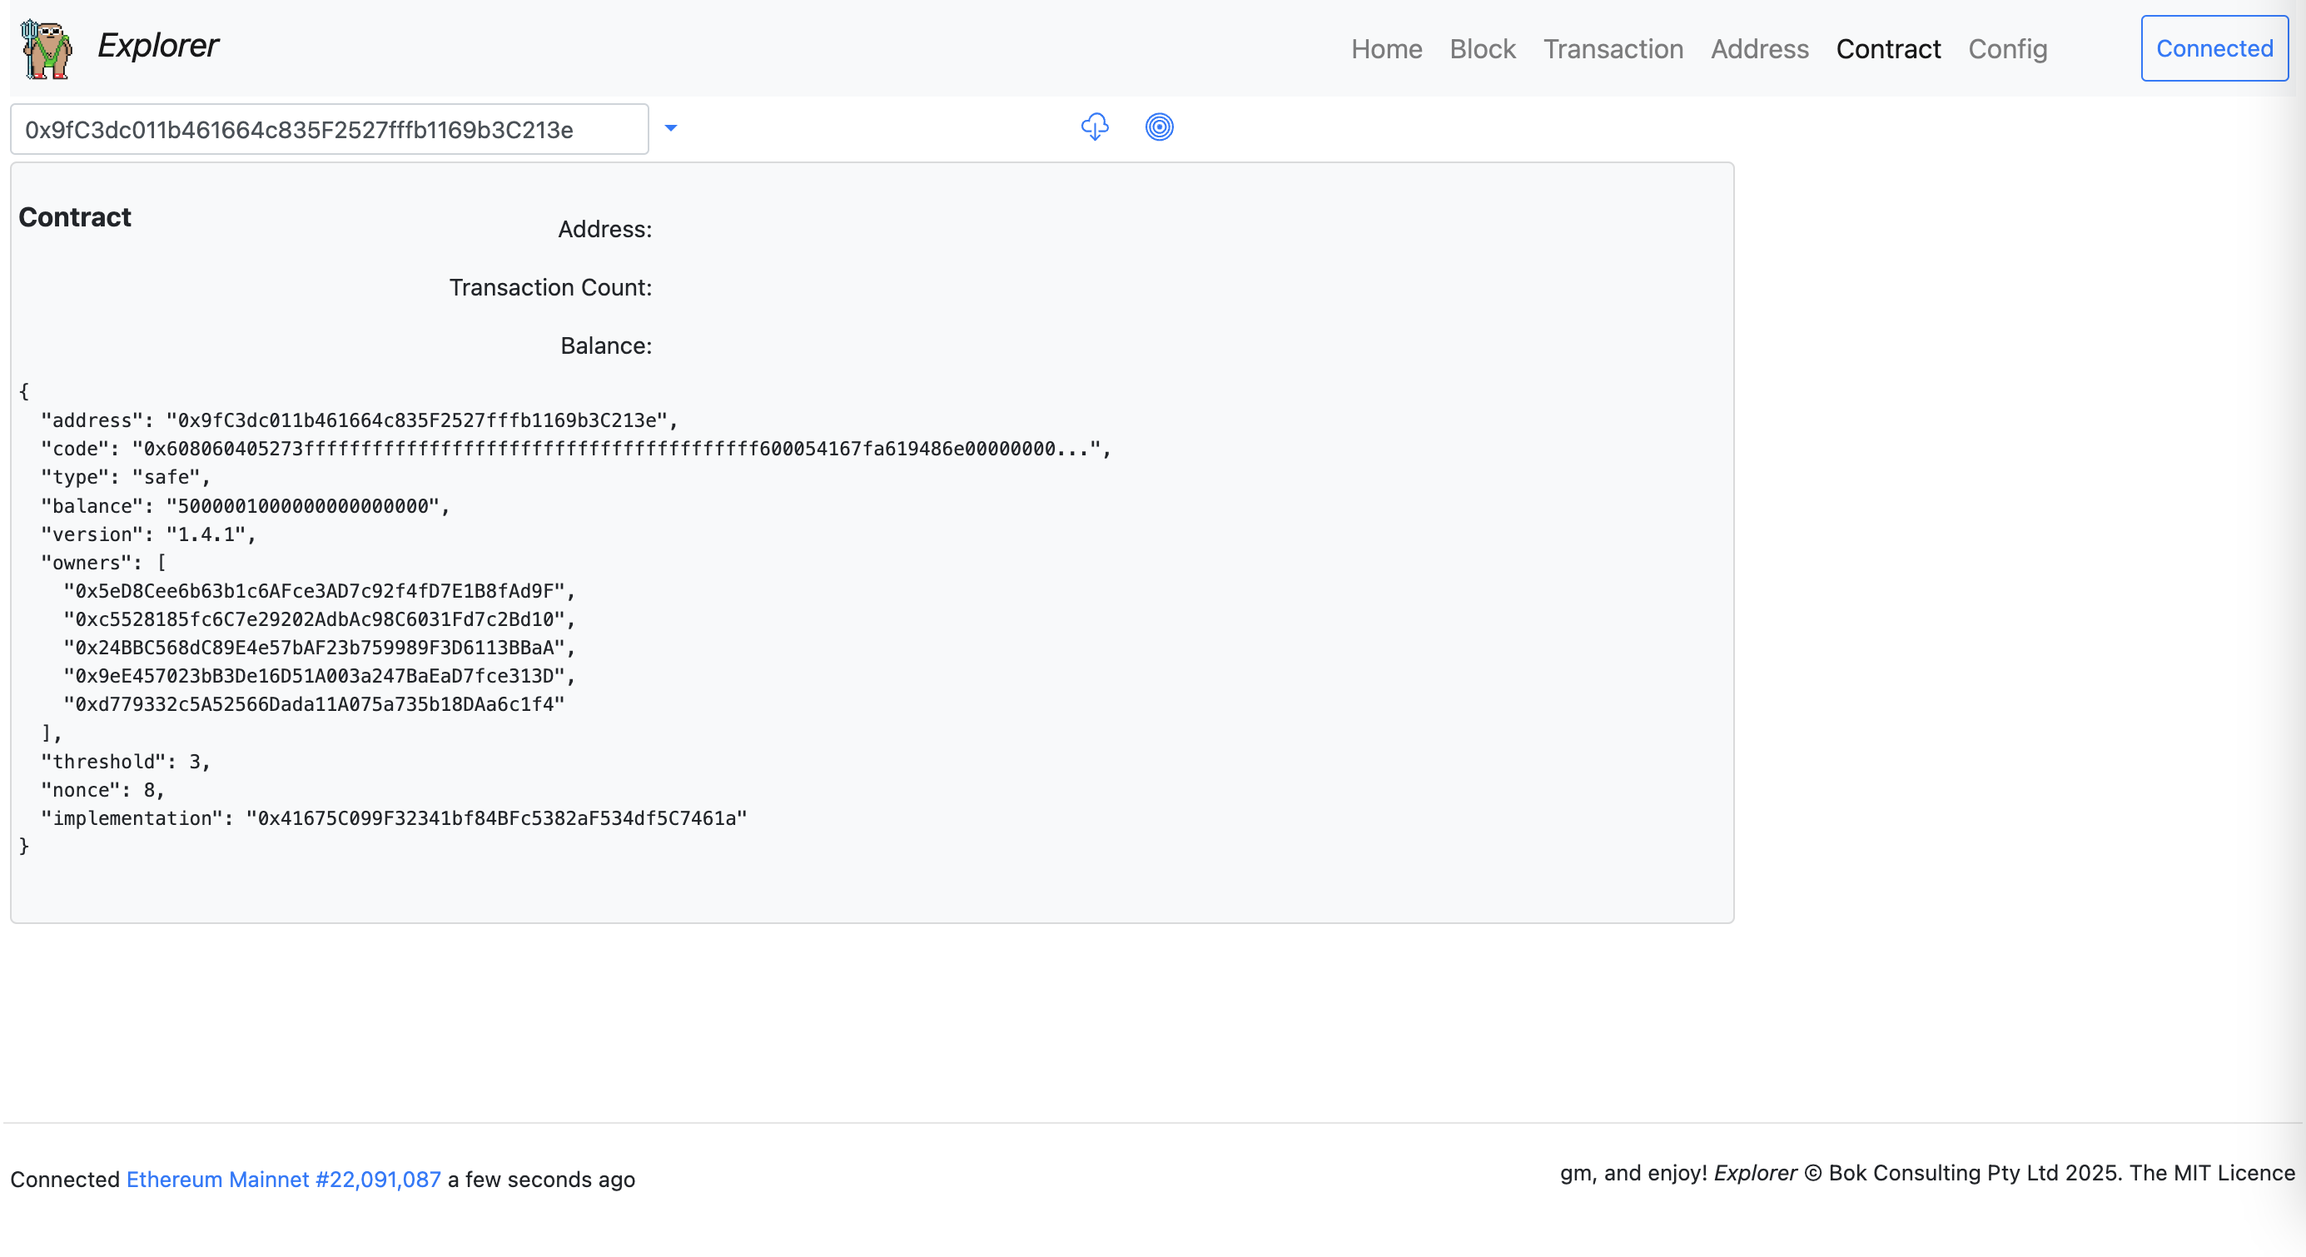
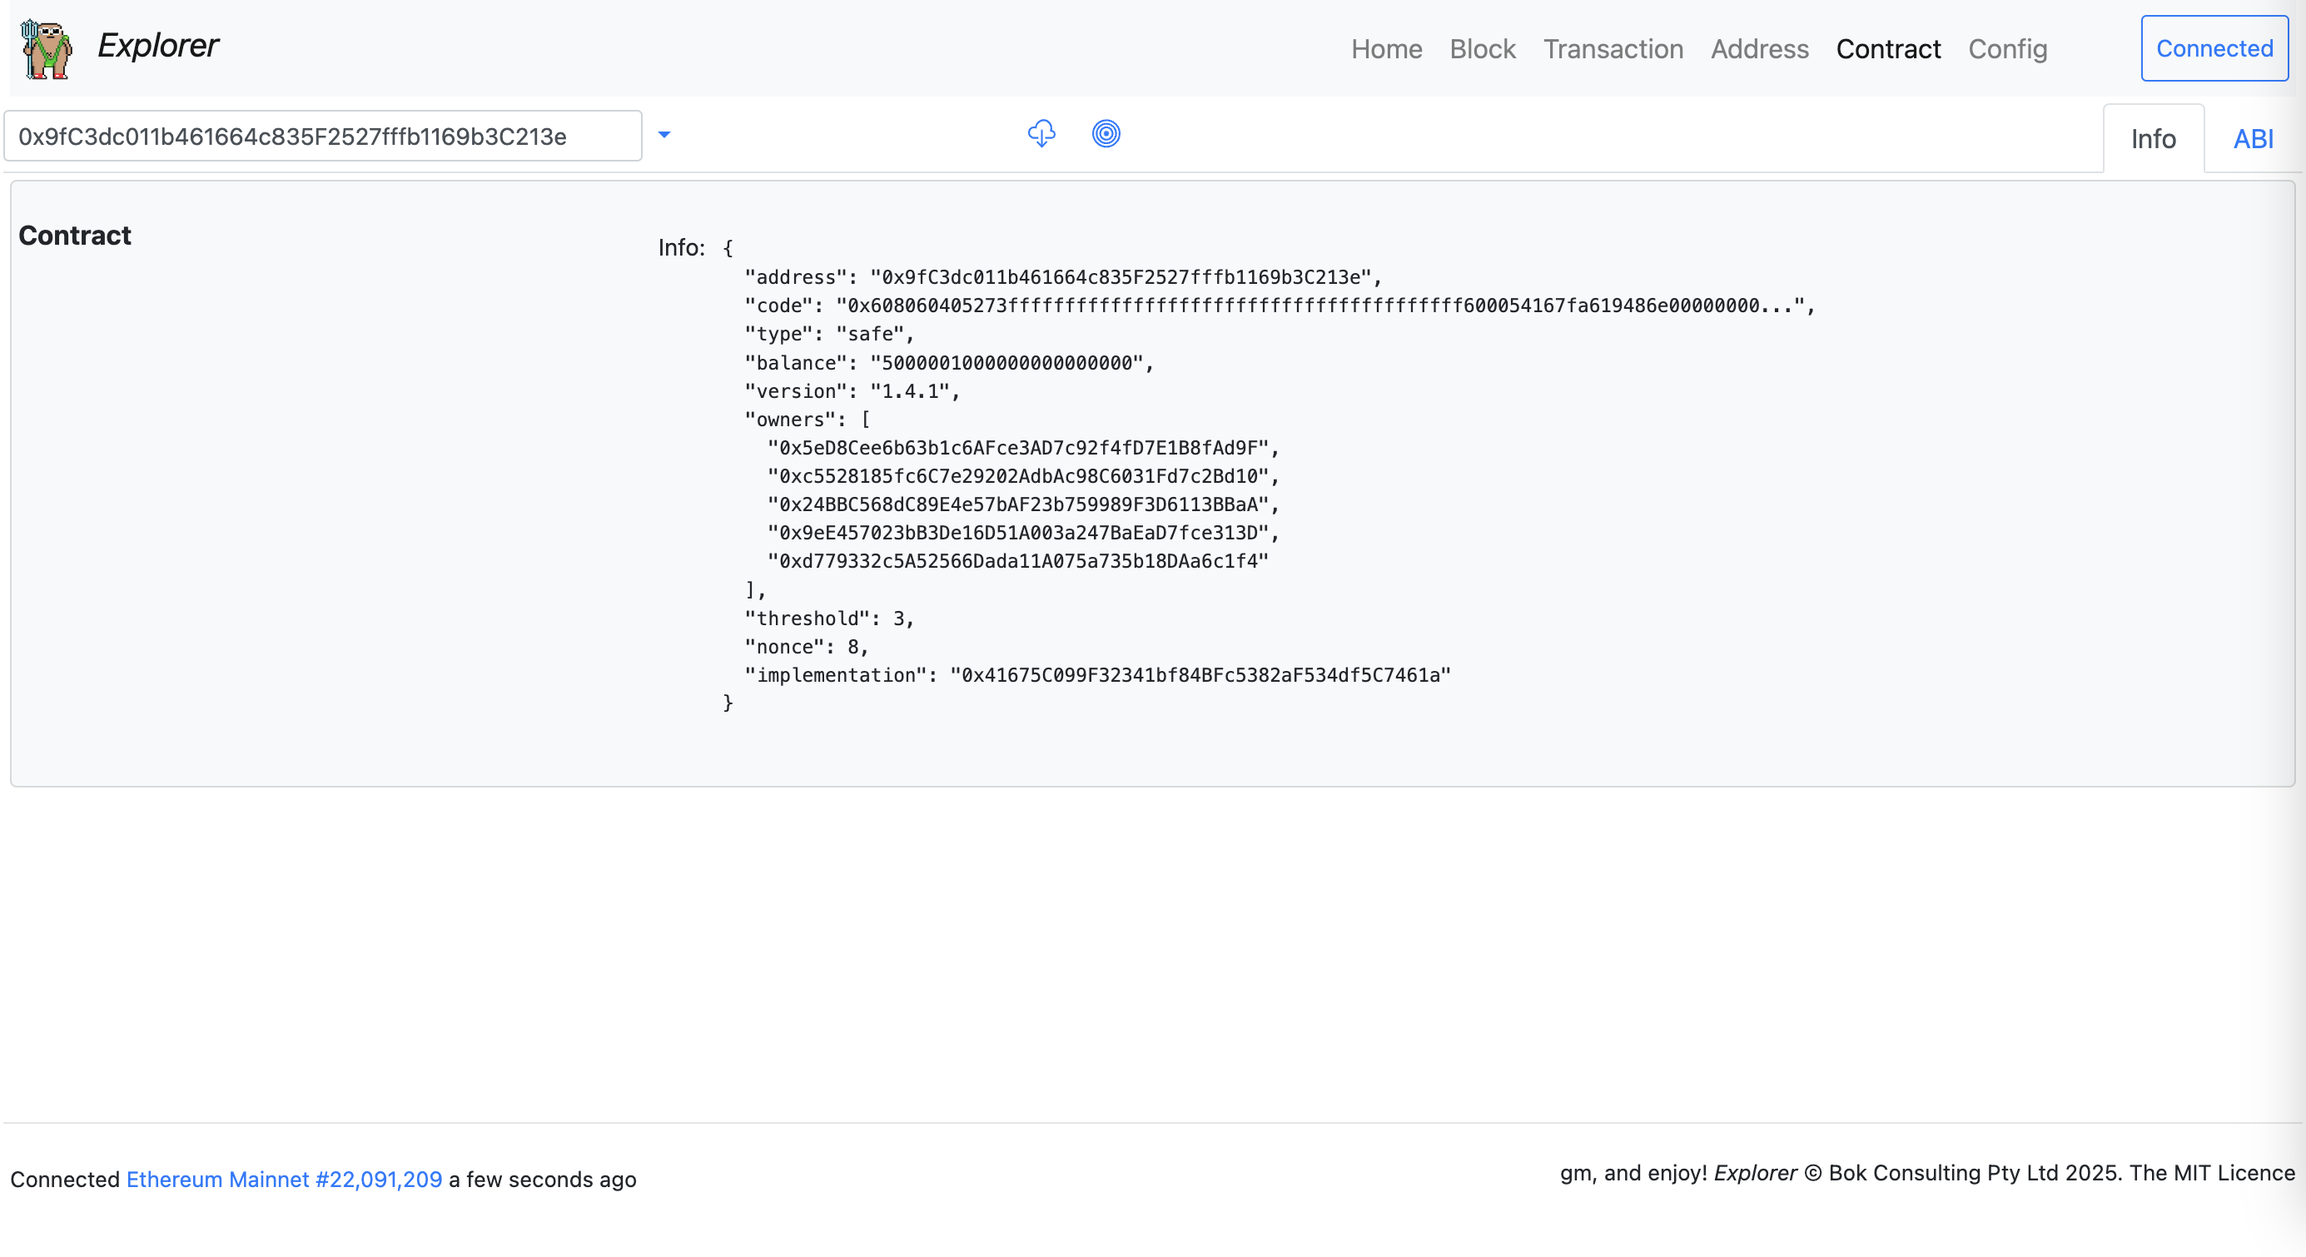
contract wip

diff --git a/docs/contract.js b/docs/contract.js
@@ -5,75 +5,82 @@ const Contract = {
       <b-card no-body no-header class="border-0" header-class="p-1">
         <b-card no-body class="border-0 m-0 mt-0">
 
-          <div class="d-flex flex-wrap m-0 p-0 px-1 bg-white">
-            <div class="m-0 mt-1 p-0" style="width: 24.0rem;">
-              <b-form-input type="text" size="sm" :value="inputAddress" @change="loadAddress($event);" debounce="600" v-b-popover.hover.bottom="'Address'" placeholder="🔍 address, e.g., 0x1234...abcd"></b-form-input>
-            </div>
-            <div class="mt-1 pr-1">
-              <b-dropdown size="sm" right text="" variant="link" class="m-0 p-0">
-                <b-dropdown-text>Sample Contracts</b-dropdown-text>
-                <b-dropdown-divider></b-dropdown-divider>
-                <b-dropdown-item @click="loadAddress('0x9fC3dc011b461664c835F2527fffb1169b3C213e');">0x9fC3dc01 - EF: DeFi Multisig - Safe v1.4.1</b-dropdown-item>
-                <b-dropdown-item @click="loadAddress('0xC02aaA39b223FE8D0A0e5C4F27eAD9083C756Cc2');">0xC02aaA39 - ERC-20: WETH</b-dropdown-item>
-                <b-dropdown-item @click="loadAddress('0x42069abfe407c60cf4ae4112bedead391dba1cdb');">0x42069abf - ERC-721: CryptoDickButts</b-dropdown-item>
-                <b-dropdown-item @click="loadAddress('0x8fa600364b93c53e0c71c7a33d2ade21f4351da3');">0x8fa60036 - ERC-721: Larva Chads</b-dropdown-item>
-                <b-dropdown-item @click="loadAddress('0xB32979486938AA9694BFC898f35DBED459F44424');">0xB3297948 - ERC-1155: Nyan Cat</b-dropdown-item>
-                <b-dropdown-item @click="loadAddress('0xb47e3cd837dDF8e4c57F05d70Ab865de6e193BBB');">0xb47e3cd8 - CryptoPunksMarket</b-dropdown-item>
-                <b-dropdown-item @click="loadAddress('0x16F5A35647D6F03D5D3da7b35409D65ba03aF3B2');">0x16F5A356 - CryptopunksData</b-dropdown-item>
-              </b-dropdown>
-            </div>
-            <div class="mt-0 flex-grow-1">
-            </div>
-            <div class="mt-0 pr-1">
-              <b-button :disabled="!etherscanAPIKey || !inputAddress" size="sm" @click="importABIFromEtherscan();" variant="link" v-b-popover.hover.top="'Import ABI from https://api.etherscan.io/. You will need to enter your Etherscan API key in the Config page'"><b-icon-cloud-download shift-v="-3" font-scale="1.2"></b-icon-cloud-download></b-button>
-            </div>
-            <div class="mt-0 pr-1">
-              <b-button :disabled="!inputAddress" size="sm" @click="testIt();" variant="link" v-b-popover.hover.top="'Test'"><b-icon-bullseye shift-v="-3" font-scale="1.2"></b-icon-bullseye></b-button>
-            </div>
-            <div class="mt-0 flex-grow-1">
-            </div>
-            <div class="mt-0 flex-grow-1">
-            </div>
-            <div class="mt-0 flex-grow-1">
-            </div>
-          </div>
+          <b-tabs v-model="settings.tabIndex" @input="saveSettings" align="right" class="text-right mt-1" content-class="m-0 p-0">
+            <template #tabs-start>
+              <div class="d-flex flex-grow-1">
+                <div class="m-0 mt-1 p-0" style="width: 24.0rem;">
+                  <b-form-input type="text" size="sm" :value="inputAddress" @change="loadAddress($event);" debounce="600" v-b-popover.hover.bottom="'Address'" placeholder="🔍 address, e.g., 0x1234...abcd"></b-form-input>
+                </div>
+                <div class="mt-1 pr-1">
+                  <b-dropdown size="sm" right text="" variant="link" class="m-0 p-0">
+                    <b-dropdown-text>Sample Contracts</b-dropdown-text>
+                    <b-dropdown-divider></b-dropdown-divider>
+                    <b-dropdown-item @click="loadAddress('0x9fC3dc011b461664c835F2527fffb1169b3C213e');">0x9fC3dc01 - EF: DeFi Multisig - Safe v1.4.1</b-dropdown-item>
+                    <b-dropdown-item @click="loadAddress('0xC02aaA39b223FE8D0A0e5C4F27eAD9083C756Cc2');">0xC02aaA39 - ERC-20: WETH</b-dropdown-item>
+                    <b-dropdown-item @click="loadAddress('0x42069abfe407c60cf4ae4112bedead391dba1cdb');">0x42069abf - ERC-721: CryptoDickButts</b-dropdown-item>
+                    <b-dropdown-item @click="loadAddress('0x8fa600364b93c53e0c71c7a33d2ade21f4351da3');">0x8fa60036 - ERC-721: Larva Chads</b-dropdown-item>
+                    <b-dropdown-item @click="loadAddress('0xB32979486938AA9694BFC898f35DBED459F44424');">0xB3297948 - ERC-1155: Nyan Cat</b-dropdown-item>
+                    <b-dropdown-item @click="loadAddress('0xb47e3cd837dDF8e4c57F05d70Ab865de6e193BBB');">0xb47e3cd8 - CryptoPunksMarket</b-dropdown-item>
+                    <b-dropdown-item @click="loadAddress('0x16F5A35647D6F03D5D3da7b35409D65ba03aF3B2');">0x16F5A356 - CryptopunksData</b-dropdown-item>
+                  </b-dropdown>
+                </div>
+                <div class="mt-0 flex-grow-1">
+                </div>
+                <div class="mt-0 pr-1">
+                  <b-button :disabled="!etherscanAPIKey || !inputAddress" size="sm" @click="importABIFromEtherscan();" variant="link" v-b-popover.hover.top="'Import ABI from https://api.etherscan.io/. You will need to enter your Etherscan API key in the Config page'"><b-icon-cloud-download shift-v="-3" font-scale="1.2"></b-icon-cloud-download></b-button>
+                </div>
+                <div class="mt-0 pr-1">
+                  <b-button :disabled="!inputAddress" size="sm" @click="testIt();" variant="link" v-b-popover.hover.top="'Test'"><b-icon-bullseye shift-v="-3" font-scale="1.2"></b-icon-bullseye></b-button>
+                </div>
+              </div>
+              <div class="mt-0 flex-grow-1">
+              </div>
+              <div class="mt-0 flex-grow-1">
+              </div>
+              <div class="mt-0 flex-grow-1">
+              </div>
+            </template>
+            <b-tab title="Info" no-body></b-tab>
+            <b-tab title="ABI" no-body></b-tab>
+          </b-tabs>
 
-          <b-card no-body no-header bg-variant="light" class="m-1 p-1 w-75">
+          <b-card no-body no-header bg-variant="light" class="m-1 p-1">
 
-            <b-form-group label-cols-lg="2" label="Contract" label-size="md" label-class="font-weight-bold pt-0" class="mt-3 mb-0">
-              <b-form-group v-if="error" label="Error:" label-for="address-error" label-size="sm" label-cols-sm="3" label-align-sm="right" class="mx-0 my-1 p-0">
-                <b-form-input type="text" plaintext size="sm" id="address-error" :value="error"></b-form-input>
-              </b-form-group>
-
-              <b-form-group v-if="!error" label="Address:" label-for="address-address" label-size="sm" label-cols-sm="3" label-align-sm="right" class="mx-0 my-1 p-0">
-                <b-input-group class="w-75">
-                  <b-form-input type="text" plaintext size="sm" :value="address"></b-form-input>
-                  <b-input-group-append>
-                    <b-button v-if="address" :href="'https://etherscan.io/address/' + address" variant="link" target="_blank" class="m-0 ml-2 p-0 pt-1">
-                      <b-icon-link-45deg shift-v="-1" font-scale="1.1"></b-icon-link-45deg>
-                    </b-button>
-                    <b-button v-if="address" size="sm" @click="copyToClipboard(address);" variant="link">
-                      <b-icon-clipboard shift-v="-1" font-scale="1.1"></b-icon-clipboard>
-                    </b-button>
-                  </b-input-group-append>
-                </b-input-group>
-              </b-form-group>
-
-              <b-form-group v-if="!error" label="Transaction Count:" label-for="address-transactioncount" label-size="sm" label-cols-sm="3" label-align-sm="right" class="mx-0 my-1 p-0">
-                <b-form-input type="text" plaintext size="sm" id="address-transactioncount" :value="commify0(transactionCount) || ''"></b-form-input>
-              </b-form-group>
-
-              <b-form-group label="Balance:" label-for="address-balance" label-size="sm" label-cols-sm="3" label-align-sm="right" class="mx-0 my-1 p-0">
-                <b-form-input type="text" plaintext size="sm" id="address-balance" :value="balance && (formatETH(balance) + ' ETH')"></b-form-input>
-              </b-form-group>
-
-            </b-form-group>
-
-            <font size="-1">
-              <pre>
+            <div v-if="settings.tabIndex == 0">
+              <b-form-group label-cols-lg="2" label="Contract" label-size="md" label-class="font-weight-bold pt-0" class="mt-3 mb-0">
+                <b-form-group v-if="error" label="Error:" label-for="address-error" label-size="sm" label-cols-sm="3" label-align-sm="right" class="mx-0 my-1 p-0">
+                  <b-form-input type="text" plaintext size="sm" id="address-error" :value="error"></b-form-input>
+                </b-form-group>
+                <!-- <b-form-group v-if="!error" label="Address:" label-for="address-address" label-size="sm" label-cols-sm="3" label-align-sm="right" class="mx-0 my-1 p-0">
+                  <b-input-group class="w-75">
+                    <b-form-input type="text" plaintext size="sm" :value="address"></b-form-input>
+                    <b-input-group-append>
+                      <b-button v-if="address" :href="'https://etherscan.io/address/' + address" variant="link" target="_blank" class="m-0 ml-2 p-0 pt-1">
+                        <b-icon-link-45deg shift-v="-1" font-scale="1.1"></b-icon-link-45deg>
+                      </b-button>
+                      <b-button v-if="address" size="sm" @click="copyToClipboard(address);" variant="link">
+                        <b-icon-clipboard shift-v="-1" font-scale="1.1"></b-icon-clipboard>
+                      </b-button>
+                    </b-input-group-append>
+                  </b-input-group>
+                </b-form-group> -->
+                <!-- <b-form-group v-if="!error" label="Transaction Count:" label-for="address-transactioncount" label-size="sm" label-cols-sm="3" label-align-sm="right" class="mx-0 my-1 p-0">
+                  <b-form-input type="text" plaintext size="sm" id="address-transactioncount" :value="commify0(transactionCount) || ''"></b-form-input>
+                </b-form-group> -->
+                <!-- <b-form-group label="Balance:" label-for="address-balance" label-size="sm" label-cols-sm="3" label-align-sm="right" class="mx-0 my-1 p-0">
+                  <b-form-input type="text" plaintext size="sm" id="address-balance" :value="balance && (formatETH(balance) + ' ETH')"></b-form-input>
+                </b-form-group> -->
+                <b-form-group label="Info:" label-for="address-info" label-size="sm" label-cols-sm="2" label-align-sm="right" class="mx-0 my-1 p-0">
+                  <font size="-1">
+                    <pre class="mt-2">
 {{ info }}
-              </pre>
-            </font>
+                    </pre>
+                  </font>
+                </b-form-group>
+              </b-form-group>
+            </div>
+            <div v-if="settings.tabIndex == 1">
+            </div>
           </b-card>
           <!-- <b-card-text>
             <h5>Address</h5>
@@ -88,9 +95,11 @@ const Contract = {
   props: ['inputAddress'],
   data: function () {
     return {
+      settings: {
+        tabIndex: 0,
+        version: 0,
+      },
       info: {},
-      count: 0,
-      reschedule: true,
     }
   },
   computed: {
@@ -163,6 +172,10 @@ const Contract = {
       //   }
       }
     },
+    saveSettings() {
+      console.log(now() + " Contract - saveSettings");
+      localStorage.explorerContractSettings = JSON.stringify(this.settings);
+    },
     copyToClipboard(str) {
       navigator.clipboard.writeText(str);
     },
@@ -201,10 +214,16 @@ const Contract = {
   },
   mounted() {
     console.log(now() + " Contract - mounted() $route.params: " + JSON.stringify(this.$route.params));
+
+    if ('explorerContractSettings' in localStorage) {
+      const tempSettings = JSON.parse(localStorage.explorerContractSettings);
+      if ('version' in tempSettings && tempSettings.version == this.settings.version) {
+        Vue.set(this, 'settings', tempSettings);
+        // this.settings.xTable.currentPage = 1;
+      }
+    }
     const t = this;
     setTimeout(function() {
-      // store.dispatch('contract/loadAddress', t.inputAddress);
-      // await t.loadAddress(t.inputAddress);
       (async() => {
         await t.loadAddressInfo(t.inputAddress);
       })();
@@ -218,60 +237,54 @@ const Contract = {
 const contractModule = {
   namespaced: true,
   state: {
-    error: null,
-    address: null,
-    transactionCount: null,
-    balance: null,
-    // ensName: null,
-    // transactions: [],
+    // error: null,
+    // address: null,
+    // transactionCount: null,
+    // balance: null,
   },
   getters: {
-    error: state => state.error,
-    address: state => state.address,
-    transactionCount: state => state.transactionCount,
-    balance: state => state.balance,
-    // ensName: state => state.ensName,
-    // transactions: state => state.transactions,
+    // error: state => state.error,
+    // address: state => state.address,
+    // transactionCount: state => state.transactionCount,
+    // balance: state => state.balance,
   },
   mutations: {
-    setData(state, data) {
-      // console.log(now() + " contractModule - mutations.setData - data: " + JSON.stringify(data));
-      state.error = data.error;
-      state.address = data.address;
-      state.transactionCount = data.transactionCount;
-      state.balance = data.balance;
-      // state.ensName = data.ensName;
-      // state.transactions = data.transactions;
-    },
+    // setData(state, data) {
+    //   // console.log(now() + " contractModule - mutations.setData - data: " + JSON.stringify(data));
+    //   state.error = data.error;
+    //   state.address = data.address;
+    //   state.transactionCount = data.transactionCount;
+    //   state.balance = data.balance;
+    // },
   },
   actions: {
-    async loadAddress(context, inputAddress) {
-      console.log(now() + " contractModule - actions.loadAddress - inputAddress: " + inputAddress);
-      let [error, address, transactionCount, balance, ensName, transactions, block] = [null, null, null, null, null, null, null];
-      if (inputAddress) {
-        if (!store.getters['web3Connection'].connected || !window.ethereum) {
-          error = "Not connected";
-        }
-        if (!error && !(/^0x([A-Fa-f0-9]{40})$/.test(inputAddress))) {
-          error = "Invalid address (ENS names will be supported later)";
-        }
-        if (!error) {
-          try {
-            address = ethers.utils.getAddress(inputAddress);
-          } catch (e) {
-            error = "Invalid address: " + inputAddress;
-          }
-        }
-        if (!error) {
-          const provider = new ethers.providers.Web3Provider(window.ethereum);
-          transactionCount = await provider.getTransactionCount(address);
-          console.log(now() + " contractModule - actions.loadAddress - transactionCount: " + transactionCount);
-          balance = await provider.getBalance(address);
-          console.log(now() + " contractModule - actions.loadAddress - balance: " + balance);
-        }
-      }
-      console.log("error: " + error);
-      context.commit('setData', { error, address, transactionCount, balance });
-    }
+    // async loadAddress(context, inputAddress) {
+    //   console.log(now() + " contractModule - actions.loadAddress - inputAddress: " + inputAddress);
+    //   let [error, address, transactionCount, balance, ensName, transactions, block] = [null, null, null, null, null, null, null];
+    //   if (inputAddress) {
+    //     if (!store.getters['web3Connection'].connected || !window.ethereum) {
+    //       error = "Not connected";
+    //     }
+    //     if (!error && !(/^0x([A-Fa-f0-9]{40})$/.test(inputAddress))) {
+    //       error = "Invalid address (ENS names will be supported later)";
+    //     }
+    //     if (!error) {
+    //       try {
+    //         address = ethers.utils.getAddress(inputAddress);
+    //       } catch (e) {
+    //         error = "Invalid address: " + inputAddress;
+    //       }
+    //     }
+    //     if (!error) {
+    //       const provider = new ethers.providers.Web3Provider(window.ethereum);
+    //       transactionCount = await provider.getTransactionCount(address);
+    //       console.log(now() + " contractModule - actions.loadAddress - transactionCount: " + transactionCount);
+    //       balance = await provider.getBalance(address);
+    //       console.log(now() + " contractModule - actions.loadAddress - balance: " + balance);
+    //     }
+    //   }
+    //   console.log("error: " + error);
+    //   context.commit('setData', { error, address, transactionCount, balance });
+    // }
   },
 };
